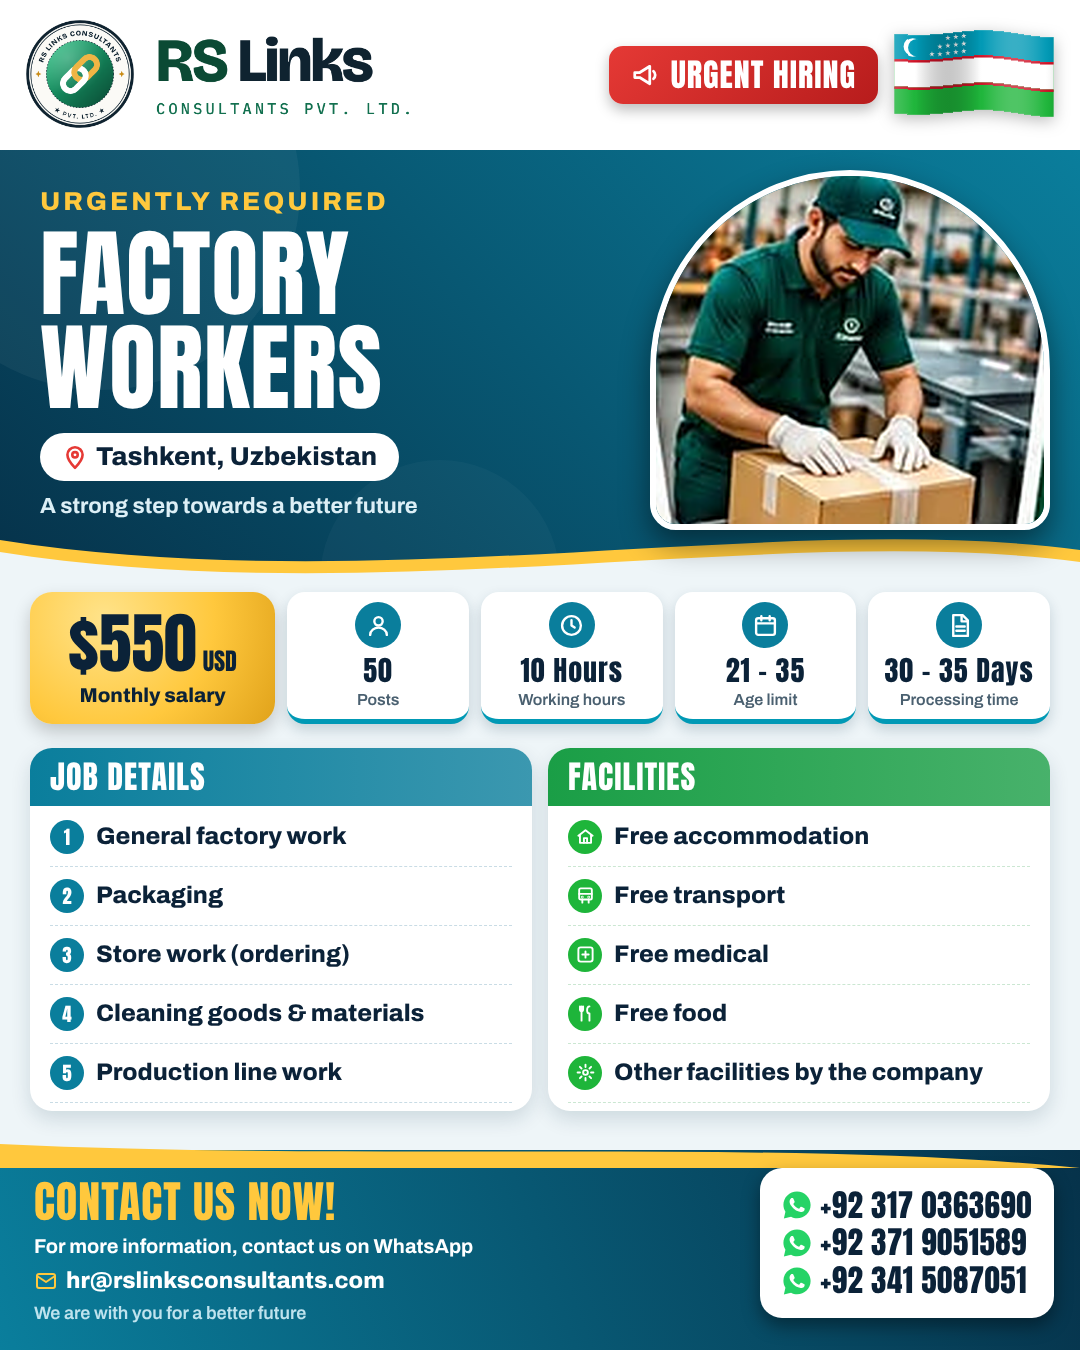
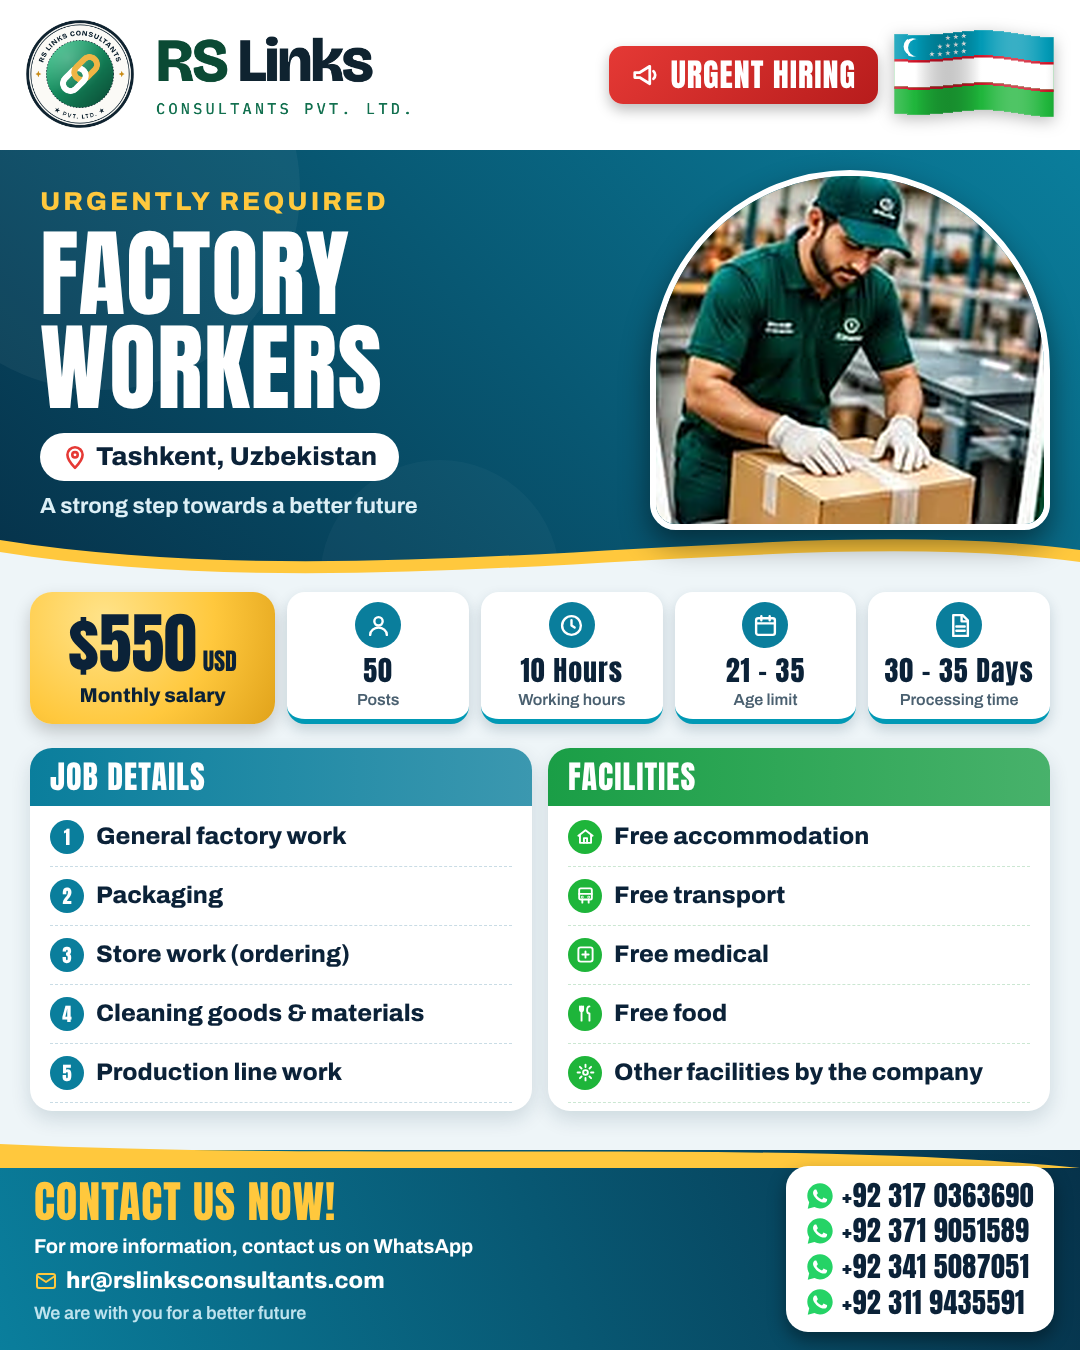
Uzbekistan factory English ad: add fourth number
Claude-Session: https://claude.ai/code/session_01YJ5ofgU8QCiWTsYR9pvXG4

Changed region(s): [[0.7028, 0.84, 0.9778, 0.9956]]

diff --git a/src/uzbekistan_v5_en.py b/src/uzbekistan_v5_en.py
@@ -26,7 +26,7 @@ def build():
     card = lambda title, color, body: (f"<div style='flex:1;background:#fff;border-radius:22px;overflow:hidden;box-shadow:0 8px 20px rgba(6,50,74,.14)'>"
                                        f"<div style='background:linear-gradient(90deg,{color},{color}cc);padding:12px 20px'>{A(title, 32, '#fff')}</div>"
                                        f"<div style='padding:2px 20px 8px'>{body}</div></div>")
-    nums = "".join(f"<div style='display:flex;align-items:center;gap:8px'><span style='line-height:0'>{whatsapp_icon(30)}</span><span style='font:400 31px Anton;color:{INK};line-height:1.15;letter-spacing:.5px'>{n}</span></div>" for n in PHONES)
+    nums = "".join(f"<div style='display:flex;align-items:center;gap:8px'><span style='line-height:0'>{whatsapp_icon(28)}</span><span style='font:400 28px Anton;color:{INK};line-height:1.2;letter-spacing:.5px'>{n}</span></div>" for n in PHONES)
     body = f"""
 <div class='abs' style='top:0;left:0;width:1080px;height:150px;background:#fff'></div>
 <div class='abs' style='top:20px;left:26px'>{logo_img('logo-horizontal-light', 'width:420px;height:108px;object-position:left')}</div>
@@ -50,7 +50,7 @@ def build():
 <div class='abs' style='top:748px;left:30px;right:30px;display:flex;gap:16px'>{card('JOB DETAILS', TEAL, work_li)}{card('FACILITIES', '#1A9E46', fac_li)}</div>
 <div class='abs' style='top:1150px;left:0;width:1080px;height:200px;background:linear-gradient(250deg,{DEEP},{TEAL})'></div>
 <svg class='abs' style='left:0;top:1138px' width='1080' height='30'><path d='M0 6 C 380 24, 780 0, 1080 30 L0 30Z' fill='{GOLD}'/></svg>
-<div class='abs' style='top:1168px;right:26px;height:150px;background:#fff;border-radius:22px;display:flex;align-items:center;padding:0 22px;box-shadow:0 8px 18px #0006'><div style='display:flex;flex-direction:column;gap:2px'>{nums}</div></div>
+<div class='abs' style='top:1166px;right:26px;height:166px;background:#fff;border-radius:22px;display:flex;align-items:center;padding:0 20px;box-shadow:0 8px 18px #0006'><div style='display:flex;flex-direction:column;gap:2px'>{nums}</div></div>
 <div class='abs' style='top:1178px;left:34px;width:560px'>
  {A('CONTACT US NOW!', 44, GOLD)}
  {F('For more information, contact us on WhatsApp', 20, '#fff', 700, 'margin-top:10px')}
